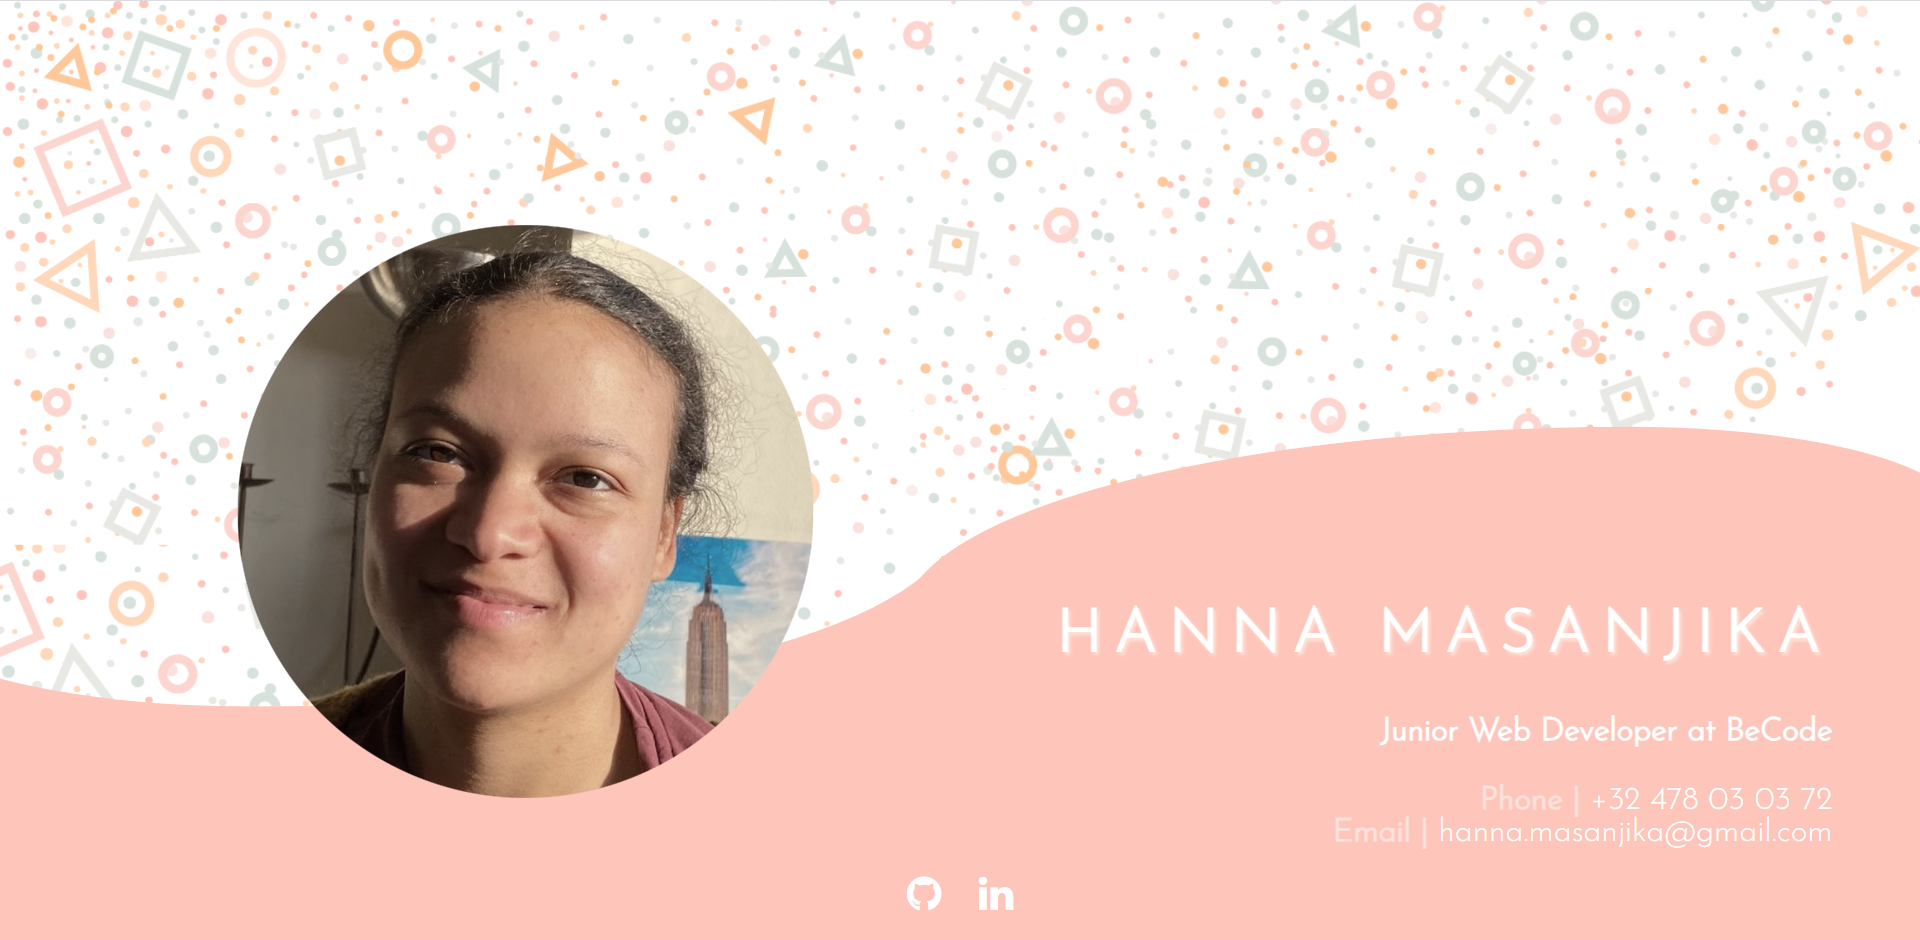
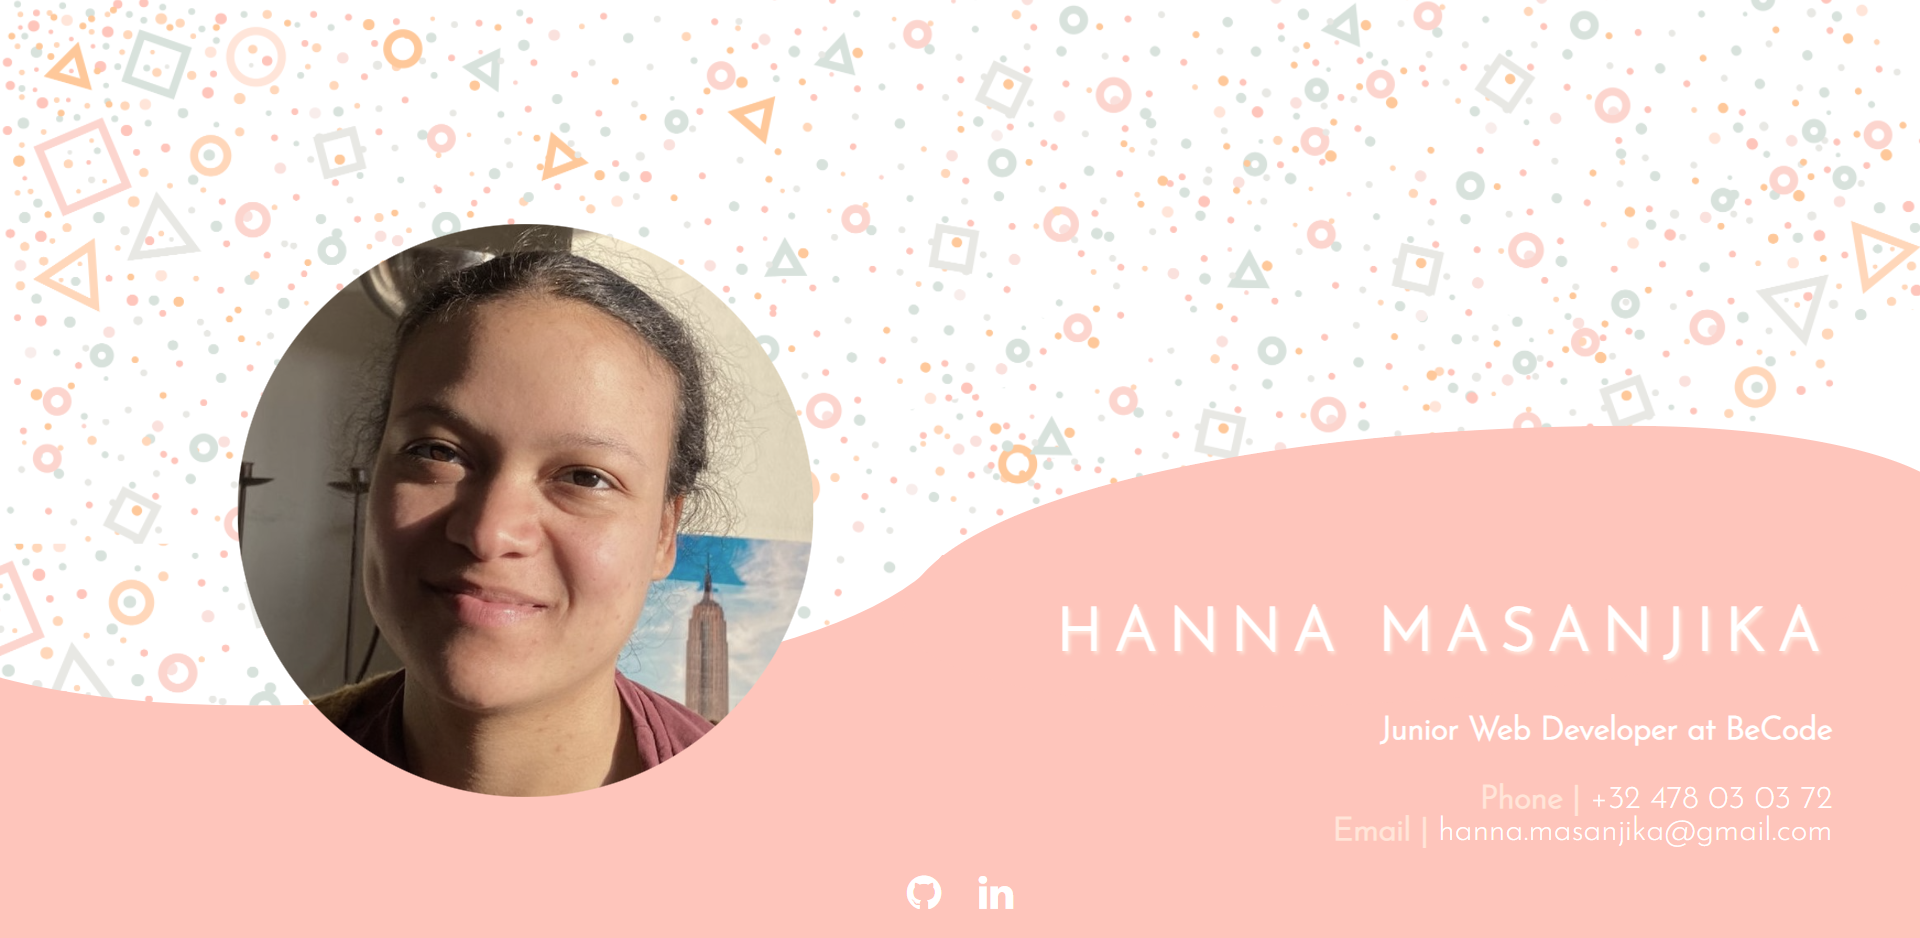
changed 'strong' colour

Changed region(s): [[0.875, 0.8348, 0.9062, 0.8657]]

diff --git a/style.css b/style.css
@@ -115,5 +115,5 @@ a {
 }
 
 strong {
-    color: #fae1dd;
+    color: #ffe5d9;
 }
